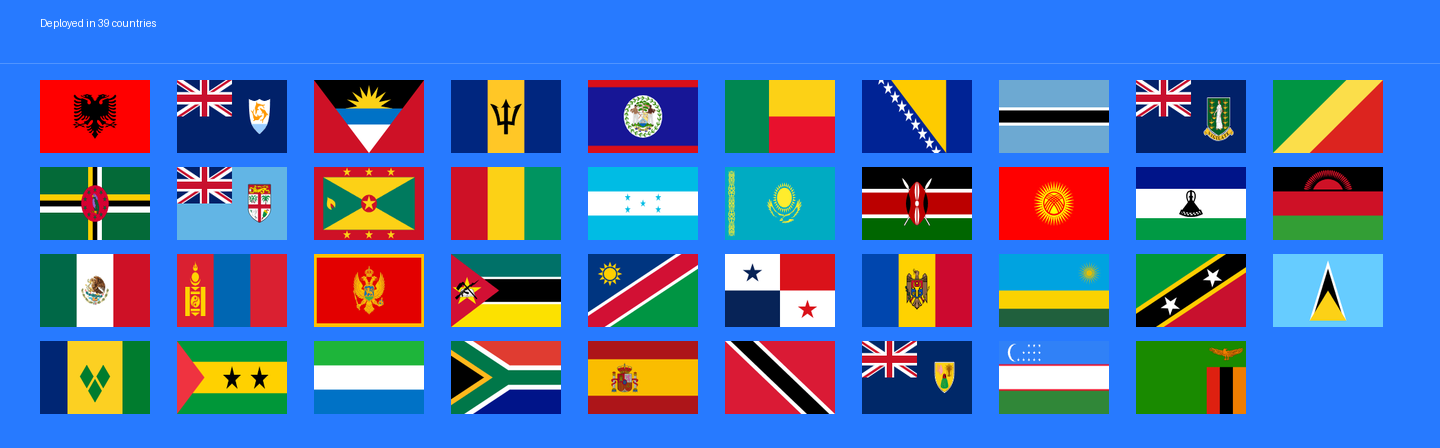
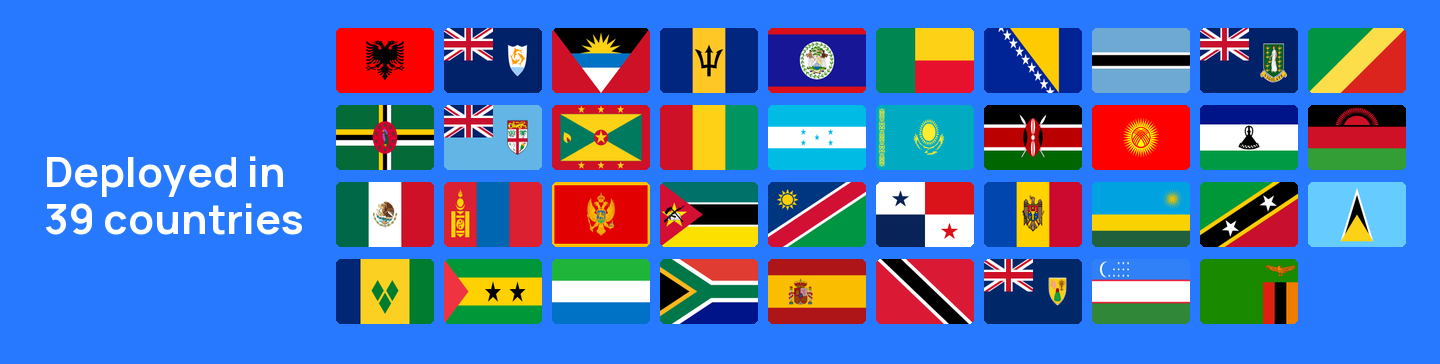
feat: two-column country grid, Manrope font, case studies redesign
- Country grid: two-column layout (text left, flags right) with rounded corners and Manrope Bold font; fixes path to .gitbook/assets so GitBook renders the image
- update_stats.py: dynamic layout computed from country count, round_corners helper, passes schools/measurements to generate_grid
- Bundles Manrope-Bold.ttf so font renders consistently on macOS and Linux CI
- Case studies: emoji flags in table, all country sections now {% expand %} toggles, Sri Lanka enriched with Ampara/Harshani narrative from giga.global/impact/bridging-dreams

diff --git a/.github/scripts/update_stats.py b/.github/scripts/update_stats.py
@@ -5,6 +5,7 @@ Renders at 2x resolution (1440px wide) for crisp display on retina screens.
 """
 
 import io
+import math
 import os
 import re
 import sys
@@ -17,44 +18,42 @@ API_KEY = os.environ.get("GIGA_API_KEY", "")
 HEADERS = {"Authorization": f"Bearer {API_KEY}"}
 
 README_PATH = "README.md"
-GRID_PATH = "docs/assets/country-grid.png"
+GRID_PATH = ".gitbook/assets/country-grid.png"
 
-# Brand colours (matches gigabrand.vercel.app social media card)
+# Brand colours
 GIGA_BLUE     = (39, 122, 255)   # #277AFF
-GIGA_BLUE_MID = (26,  95, 212)   # #1A5FD4 — placeholder flag tint
+GIGA_BLUE_MID = (26,  95, 212)   # placeholder flag tint
 WHITE         = (255, 255, 255)
 
-# ── Layout (all values are source pixels at 2x; display size is half) ──────
-CANVAS_W   = 1440
-GRID_COLS  = 10
-H_PAD      = 40                                 # left/right margin
-FLAG_W     = 110                                # → 55px visual
-FLAG_H     = 73                                 # → 36px visual (≈3:2 ratio)
-CELL_GAP_H = 14                                 # horizontal gap between cells
-CELL_GAP_V = 14                                 # vertical gap between cells
-CELL_W     = (CANVAS_W - H_PAD * 2 - CELL_GAP_H * (GRID_COLS - 1)) // GRID_COLS
-CELL_H     = FLAG_H + CELL_GAP_V
-HEADER_H   = 64
-GRID_PAD_T = 16
-BOTTOM_PAD = 20
+CANVAS_W = 1440
 
 
 # ── Font loading ────────────────────────────────────────────────────────────
+
+SCRIPT_DIR = os.path.dirname(os.path.abspath(__file__))
+MANROPE_BOLD = os.path.join(SCRIPT_DIR, "Manrope-Bold.ttf")
 
 def load_font(size: int, bold: bool = False) -> ImageFont.FreeTypeFont:
     candidates = []
     if bold:
         candidates += [
+            MANROPE_BOLD,  # bundled — works on both macOS and Linux
             "/usr/share/fonts/truetype/open-sans/OpenSans-SemiBold.ttf",
             "/usr/share/fonts/truetype/open-sans/OpenSans-Bold.ttf",
             "/usr/share/fonts/truetype/lato/Lato-Bold.ttf",
+            "/Library/Fonts/Arial Unicode.ttf",
         ]
     else:
         candidates += [
+            MANROPE_BOLD,
             "/usr/share/fonts/truetype/open-sans/OpenSans-Regular.ttf",
             "/usr/share/fonts/truetype/lato/Lato-Regular.ttf",
+            "/Library/Fonts/Arial Unicode.ttf",
         ]
-    candidates.append("/usr/share/fonts/truetype/dejavu/DejaVuSans.ttf")
+    candidates += [
+        "/usr/share/fonts/truetype/dejavu/DejaVuSans.ttf",
+        "/System/Library/Fonts/Helvetica.ttc",
+    ]
     for path in candidates:
         if os.path.exists(path):
             return ImageFont.truetype(path, size)
@@ -154,54 +153,91 @@ def filter_countries_with_measurements(countries: list[dict]) -> list[dict]:
 # ── Flag fetching ────────────────────────────────────────────────────────────
 
 def fetch_flag(iso2: str) -> Image.Image | None:
-    # Use w160 for high quality; scale down to FLAG_W × FLAG_H
     url = f"https://flagcdn.com/w160/{iso2.lower()}.png"
     try:
         resp = requests.get(url, timeout=10)
         if resp.status_code == 200:
-            return (
-                Image.open(io.BytesIO(resp.content))
-                .convert("RGBA")
-                .resize((FLAG_W, FLAG_H), Image.LANCZOS)
-            )
+            return Image.open(io.BytesIO(resp.content)).convert("RGBA")
     except Exception:
         pass
     return None
 
 
+def round_corners(img: Image.Image, radius: int) -> Image.Image:
+    img = img.convert("RGBA")
+    mask = Image.new("L", img.size, 0)
+    ImageDraw.Draw(mask).rounded_rectangle(
+        [(0, 0), (img.width - 1, img.height - 1)], radius=radius, fill=255
+    )
+    img.putalpha(mask)
+    return img
+
+
 # ── Country grid ─────────────────────────────────────────────────────────────
 
-def generate_grid(countries: list[dict]) -> Image.Image:
+def generate_grid(countries: list[dict], schools: int = 0, measurements: int = 0) -> Image.Image:
     countries_sorted = sorted(countries, key=lambda c: c.get("name", ""))
     n = len(countries_sorted)
-    rows = (n + GRID_COLS - 1) // GRID_COLS
 
-    total_h = HEADER_H + GRID_PAD_T + rows * CELL_H + BOTTOM_PAD
+    # Layout
+    OUTER_H = 44          # left/right outer margin
+    OUTER_V = 28          # top/bottom outer margin
+    LEFT_COL_W = 260      # text column width
+    COL_GAP = 32          # gap between text col and flags
+    RIGHT_PAD = 32
+    GRID_ROWS = 4
+    CELL_GAP_H = 10
+    CELL_GAP_V = 12
+    CORNER_R = 5
+
+    flags_x0 = OUTER_H + LEFT_COL_W + COL_GAP
+    flag_area_w = CANVAS_W - flags_x0 - RIGHT_PAD
+    grid_cols = math.ceil(n / GRID_ROWS)
+    flag_w = (flag_area_w - CELL_GAP_H * (grid_cols - 1)) // grid_cols
+    flag_h = flag_w * 2 // 3
+    cell_h = flag_h + CELL_GAP_V
+    total_h = OUTER_V * 2 + GRID_ROWS * cell_h
+
     img = Image.new("RGB", (CANVAS_W, total_h), GIGA_BLUE)
     draw = ImageDraw.Draw(img)
 
-    # Header: "Deployed in X countries"
-    font_header = load_font(26, bold=True)
-    draw.text((H_PAD, (HEADER_H - 30) // 2), f"Deployed in {n} countries",
-              font=font_header, fill=WHITE)
+    # Left column: "Deployed in\nX countries"
+    line1, line2 = "Deployed in", f"{n} countries"
+    font_size = 56
+    font = load_font(font_size, bold=True)
+    while font_size > 18:
+        font = load_font(font_size, bold=True)
+        w1 = draw.textbbox((0, 0), line1, font=font)[2]
+        w2 = draw.textbbox((0, 0), line2, font=font)[2]
+        if max(w1, w2) <= LEFT_COL_W:
+            break
+        font_size -= 2
 
-    # Divider
-    draw.line([(0, HEADER_H - 1), (CANVAS_W, HEADER_H - 1)],
-              fill=(80, 148, 255), width=1)
+    b1 = draw.textbbox((0, 0), line1, font=font)
+    b2 = draw.textbbox((0, 0), line2, font=font)
+    h1, h2 = b1[3] - b1[1], b2[3] - b2[1]
+    line_gap = 6
+    text_total_h = h1 + line_gap + h2
+    text_y = (total_h - text_total_h) // 2
 
-    grid_y0 = HEADER_H + GRID_PAD_T
+    draw.text((OUTER_H, text_y), line1, font=font, fill=WHITE)
+    draw.text((OUTER_H, text_y + h1 + line_gap), line2, font=font, fill=WHITE)
 
+    # Flags grid
     for i, country in enumerate(countries_sorted):
-        col = i % GRID_COLS
-        row = i // GRID_COLS
-        x = H_PAD + col * (CELL_W + CELL_GAP_H)
-        y = grid_y0 + row * CELL_H
+        col = i % grid_cols
+        row = i // grid_cols
+        x = flags_x0 + col * (flag_w + CELL_GAP_H)
+        y = OUTER_V + row * cell_h
 
         flag = fetch_flag(country.get("code", ""))
         if flag:
+            flag = round_corners(flag.resize((flag_w, flag_h), Image.LANCZOS), CORNER_R)
             img.paste(flag, (x, y), flag)
         else:
-            draw.rectangle([(x, y), (x + FLAG_W, y + FLAG_H)], fill=GIGA_BLUE_MID)
+            draw.rounded_rectangle(
+                [(x, y), (x + flag_w, y + flag_h)], radius=CORNER_R, fill=GIGA_BLUE_MID
+            )
 
     return img
 
@@ -271,8 +307,8 @@ def main() -> None:
     measurements = fetch_measurement_count()
 
     print("Generating country grid image...")
-    grid_img = generate_grid(countries)
-    os.makedirs("docs/assets", exist_ok=True)
+    grid_img = generate_grid(countries, schools, measurements)
+    os.makedirs(".gitbook/assets", exist_ok=True)
     grid_img.save(GRID_PATH, "PNG", optimize=True)
     print(f"  Saved: {GRID_PATH} ({grid_img.size[0]}×{grid_img.size[1]}px)")
 

diff --git a/docs/deployment/case-studies.md b/docs/deployment/case-studies.md
@@ -10,20 +10,20 @@ How governments are using Giga Meter data to drive decisions. Each deployment be
 
 | Country | Main goal | Benchmark | Deployment model |
 |---|---|---|---|
-| Brazil | Enforce school-specific speed targets and validate ISP fiscal obligations | 1 Mbps per enrolled student in the longest shift | Hybrid |
-| Botswana | Track compliance against national connectivity mandate | 100 Mbps | Remote (centralised support team) |
-| Mongolia | Improve LAN performance; enable decentralised ISP contracting | No formal minimum | Remote (centralised support team) |
-| Malawi | Verify ISP-reported vs. student-experienced speeds | ISP contractual commitments | — |
-| Fiji | Identify schools reliable enough for live broadcast STEM lessons | No formal minimum | Hybrid |
-| Bosnia and Herzegovina | Identify schools meeting criteria for digital education programming | Meaningful connectivity | Hybrid |
-| Sri Lanka | Establish national connectivity baseline, starting in Eastern Province | No formal minimum | Hybrid (province-level trainings) |
-| Namibia | Generate evidence for procurement decisions | 100% of schools at 1 Gbps by 2030 | Hybrid |
+| 🇧🇷 Brazil | Enforce school-specific speed targets and validate ISP fiscal obligations | 1 Mbps per enrolled student in the longest shift | Hybrid |
+| 🇧🇼 Botswana | Track compliance against national connectivity mandate | 100 Mbps | Remote (centralised support team) |
+| 🇲🇳 Mongolia | Improve LAN performance; enable decentralised ISP contracting | No formal minimum | Remote (centralised support team) |
+| 🇲🇼 Malawi | Verify ISP-reported vs. student-experienced speeds | ISP contractual commitments | — |
+| 🇫🇯 Fiji | Identify schools reliable enough for live broadcast STEM lessons | No formal minimum | Hybrid |
+| 🇧🇦 Bosnia and Herzegovina | Identify schools meeting criteria for digital education programming | Meaningful connectivity | Hybrid |
+| 🇱🇰 Sri Lanka | Establish national connectivity baseline, starting in Eastern Province | No formal minimum | Hybrid (province-level trainings) |
+| 🇳🇦 Namibia | Generate evidence for procurement decisions | 100% of schools at 1 Gbps by 2030 | Hybrid |
 
 ---
 
 ## Policy enforcement
 
-### Brazil — Speed benchmark compliance and outcome-based ISP funding
+{% expand "🇧🇷 Brazil — Speed benchmark compliance and outcome-based ISP funding" %}
 
 **Context:** Brazil's *Estratégia Nacional de Escolas Conectadas* (ENEC) sets a target of 1 Mbps per enrolled student in the longest school shift. With hundreds of thousands of schools, manual compliance verification is not feasible.
 
@@ -33,9 +33,9 @@ How governments are using Giga Meter data to drive decisions. Each deployment be
 
 **What makes this model work:** The benchmark is school-specific (it scales with enrolment), not a fixed Mbps number. This makes it harder for ISPs to meet the letter of the contract while underserving larger schools.
 
----
+{% endexpand %}
 
-### Botswana — Village Connectivity Project monitoring
+{% expand "🇧🇼 Botswana — Village Connectivity Project monitoring" %}
 
 **Context:** Botswana's Village Connectivity Project aims to connect schools to a 100 Mbps standard. With ~700 schools connected, the government needed a way to verify that the standard was being met in practice, not just on paper.
 
@@ -45,9 +45,9 @@ How governments are using Giga Meter data to drive decisions. Each deployment be
 
 **Decision triggered:** Schools consistently below 100 Mbps are identified for ISP renegotiation or infrastructure upgrade planning.
 
----
+{% endexpand %}
 
-### Mongolia — LAN triangulation and decentralised ISP contracting
+{% expand "🇲🇳 Mongolia — LAN triangulation and decentralised ISP contracting" %}
 
 **Context:** Mongolia's Education Information Technology Centre (EITC) monitors internet performance in schools via LibreNMS on routers and access points alongside Giga Meter on user devices. The data is triangulated to identify whether connectivity problems sit at the ISP level, the router, or the local access point.
 
@@ -57,11 +57,13 @@ Mongolia is also moving to decentralised connectivity contracting, allowing scho
 
 **Decision triggered:** Schools with poor end-device performance despite healthy router metrics are flagged for ISP-side investigation. Contract renewal decisions are informed by school-level measurement history.
 
+{% endexpand %}
+
 ---
 
 ## ISP accountability
 
-### Malawi — Closing the gap between reported and experienced speeds
+{% expand "🇲🇼 Malawi — Closing the gap between reported and experienced speeds" %}
 
 **Context:** ISPs in Malawi report connectivity performance under their contracts. Governments had no independent way to verify whether what ISPs reported matched what students actually experienced.
 
@@ -73,11 +75,13 @@ Mongolia is also moving to decentralised connectivity contracting, allowing scho
 
 **Decision triggered:** Evidence base for government accountability proceedings with ISPs. Specific schools with persistent underperformance can be cited with documented measurement history.
 
+{% endexpand %}
+
 ---
 
 ## Digital education programming
 
-### Fiji — Identifying schools ready for live STEM broadcast lessons
+{% expand "🇫🇯 Fiji — Identifying schools ready for live STEM broadcast lessons" %}
 
 **Context:** Fiji faces a shortage of qualified STEM teachers in its remote island communities. The Ministry of Education developed a programme to broadcast live STEM lessons to multiple schools simultaneously — but this only works for schools with reliable, stable connectivity.
 
@@ -85,9 +89,9 @@ Mongolia is also moving to decentralised connectivity contracting, allowing scho
 
 **Decision triggered:** Only schools with confirmed reliable connectivity over a monitoring period are enrolled in the live lesson programme. Schools that fall below threshold are flagged for infrastructure support before enrolment.
 
----
+{% endexpand %}
 
-### Bosnia and Herzegovina — Meaningful connectivity screening
+{% expand "🇧🇦 Bosnia and Herzegovina — Meaningful connectivity screening" %}
 
 **Context:** A digital education programme needed to identify which schools met a "meaningful connectivity" threshold before deploying content and devices.
 
@@ -95,29 +99,77 @@ Mongolia is also moving to decentralised connectivity contracting, allowing scho
 
 **Decision triggered:** School eligibility for digital education programme enrolment. Schools below threshold routed to a separate infrastructure support workstream.
 
+{% endexpand %}
+
 ---
 
 ## Baseline and planning
 
-### Sri Lanka — Provincial baseline before national rollout
+{% expand "🇱🇰 Sri Lanka — From provincial baseline to national rollout" %}
 
-**Context:** Sri Lanka had no standardised, independently verified baseline of school connectivity. National expansion of digital education programming required knowing the real state of connectivity — not survey responses or ISP records.
+{% columns %}
+{% column %}
+Sri Lanka had no standardised, independently verified baseline of school connectivity. National expansion of digital education programming required knowing the real state of connectivity — not survey responses or ISP records.
 
-**Use case:** Giga Meter was deployed in a phased hybrid rollout, beginning with Eastern Province schools trained through regional workshops. Data from the province provided the first reliable, school-level connectivity baseline to inform national planning.
+Giga Meter was deployed in a phased hybrid rollout, beginning with Eastern Province schools trained through regional workshops. Data from the province provided the first reliable, school-level connectivity baseline to inform national planning.
 
-**Decision triggered:** Baseline data used to identify which schools can support digital programming and which require investment before rollout.
+Over 500 schools are now part of Giga Maps. With 10,000 schools across the country — 30% of which have internet access — the data from Eastern Province is shaping how the national programme scales.
+{% endcolumn %}
+
+{% column %}
+{% hint style="info" %}
+**Eastern Province, Ampara District**
+
+Ampara is the largest district in Sri Lanka's Eastern Province, stretching over 150 km. Schools here face geographic isolation — and connectivity gaps that mirror the distance.
+{% endhint %}
+{% endcolumn %}
+{% endcolumns %}
+
+---
+
+**The Connected Schools Model**
+
+At the forefront of deployment in Ampara is **Mrs. S. R. Hasanthi**, Zonal Director of Education. She championed a model that links schools with fully equipped ICT labs to schools with fewer resources — enabling virtual classrooms that reach students regardless of whether they are in town centres or remote villages.
+
+One hub school, **Gamini Maha Vidyalaya**, now supports 20 interconnected schools, creating a ripple effect of digital learning across the district.
+
+> "Thanks to connectivity through these ICT labs, students are developing digital skills and expanding their knowledge beyond the classroom." — Mrs. S. R. Hasanthi, Zonal Director of Education, Ampara
+
+---
+
+**What the data made possible**
+
+Giga Meter's daily automated tests provided the baseline the Ministry needed — not a one-time survey, but a continuous record of school-level connectivity across the province. That record is what makes the national rollout defensible: it identifies which schools are ready for digital programming and which need infrastructure investment first.
+
+The **Sip Arana web app**, developed by Ampara's own teachers, is already reaching 200 students across Sri Lanka — free worksheets co-created and shared digitally. Connectivity data underpins decisions about which schools can host and sustain tools like this.
+
+> "Every school deserves access to fast, reliable internet. Every child deserves the chance to learn, to grow, to dream. Connected schools create a connected future." — Mrs. Hasanthi
+
+---
+
+**A student's perspective**
+
+Harshani is a 10th-grade student at Bakmitiyawa Vidyalaya in rural Ampara, aspiring to become a lawyer.
+
+> "Before our school had connectivity, I climbed trees and even went onto sheds to get stronger signals and access information. Now, with more schools getting connected, I feel hopeful that students like me can have the same opportunities as those in cities." — Harshani
+
+**Decision triggered:** Baseline data used to identify which schools can support digital programming and which require investment before rollout. Eastern Province results are informing the national expansion plan.
+
+{% endexpand %}
 
 ---
 
 ## Procurement and investment
 
-### Namibia — Evidence for connectivity procurement
+{% expand "🇳🇦 Namibia — Evidence for connectivity procurement" %}
 
 **Context:** Namibia's national target is 100% of schools connected at 1 Gbps by 2030. Before negotiating large-scale connectivity contracts, the government needed verified data on current performance to anchor procurement discussions.
 
 **Use case:** Giga Meter provides independent, school-level performance data that governments can use in procurement negotiations — replacing ISP-reported figures with independently verified measurements.
 
 **Decision triggered:** Procurement team enters negotiations with verified performance baselines, gap analysis by region, and historical trend data.
+
+{% endexpand %}
 
 ---
 